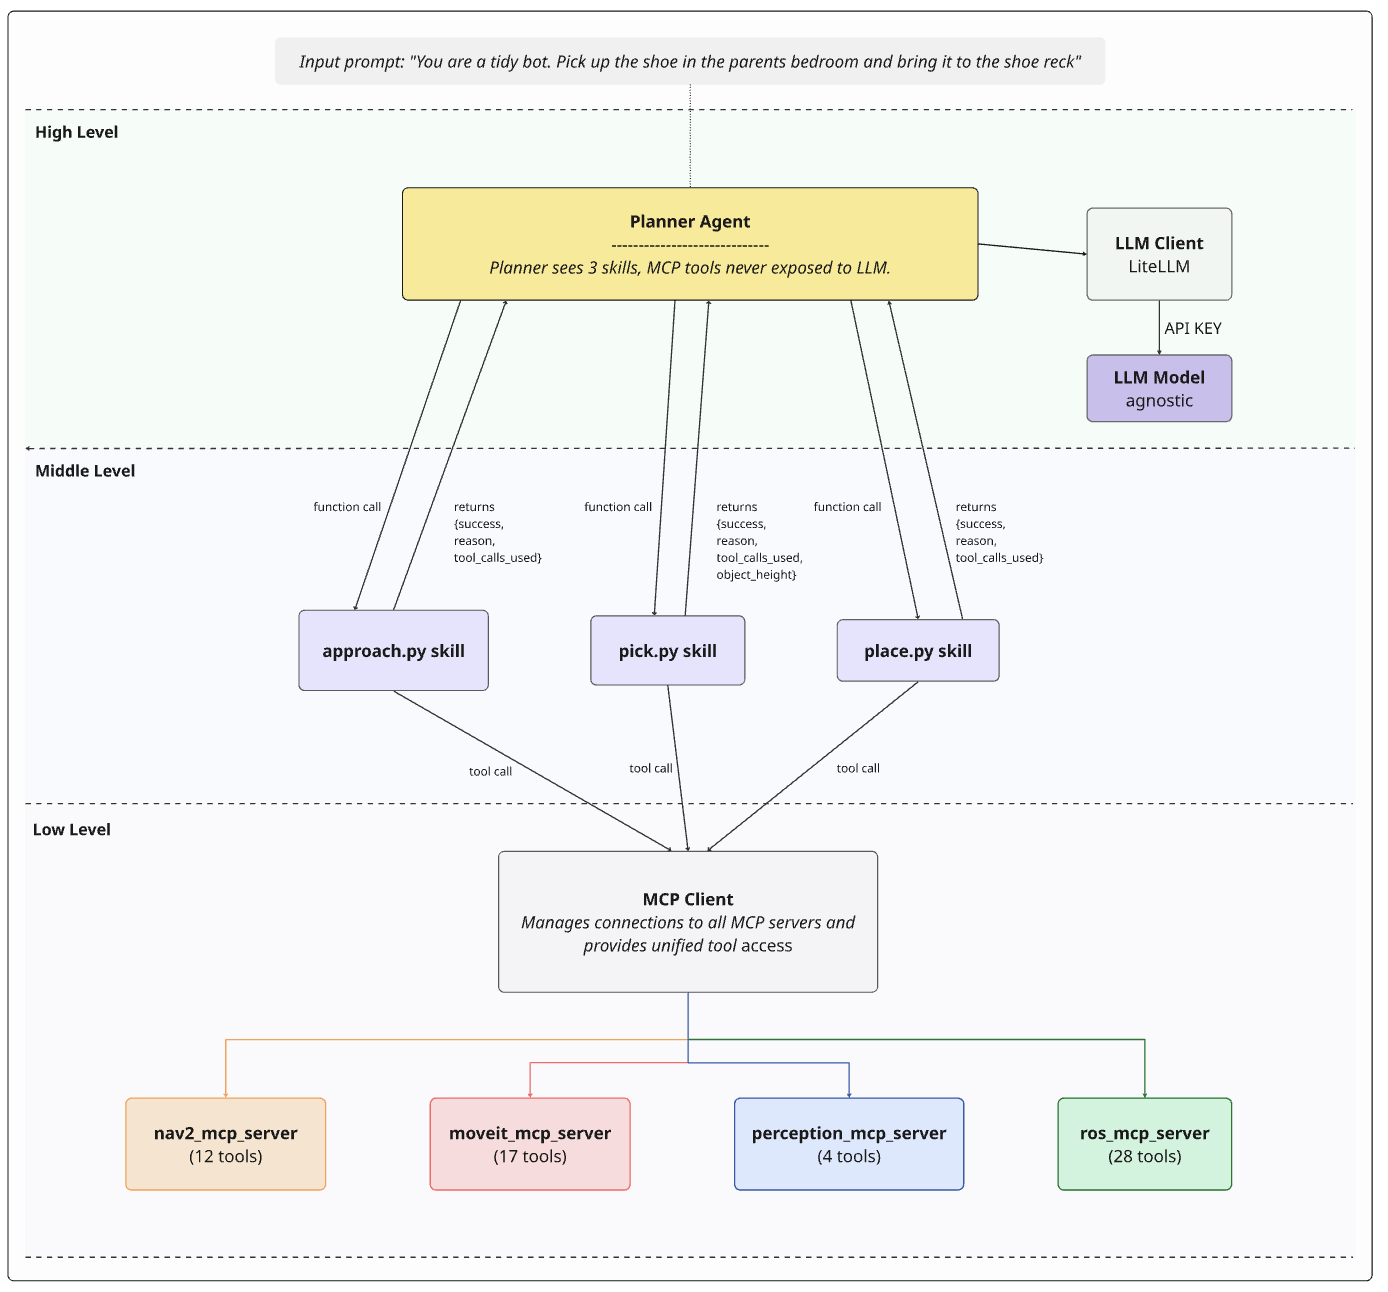
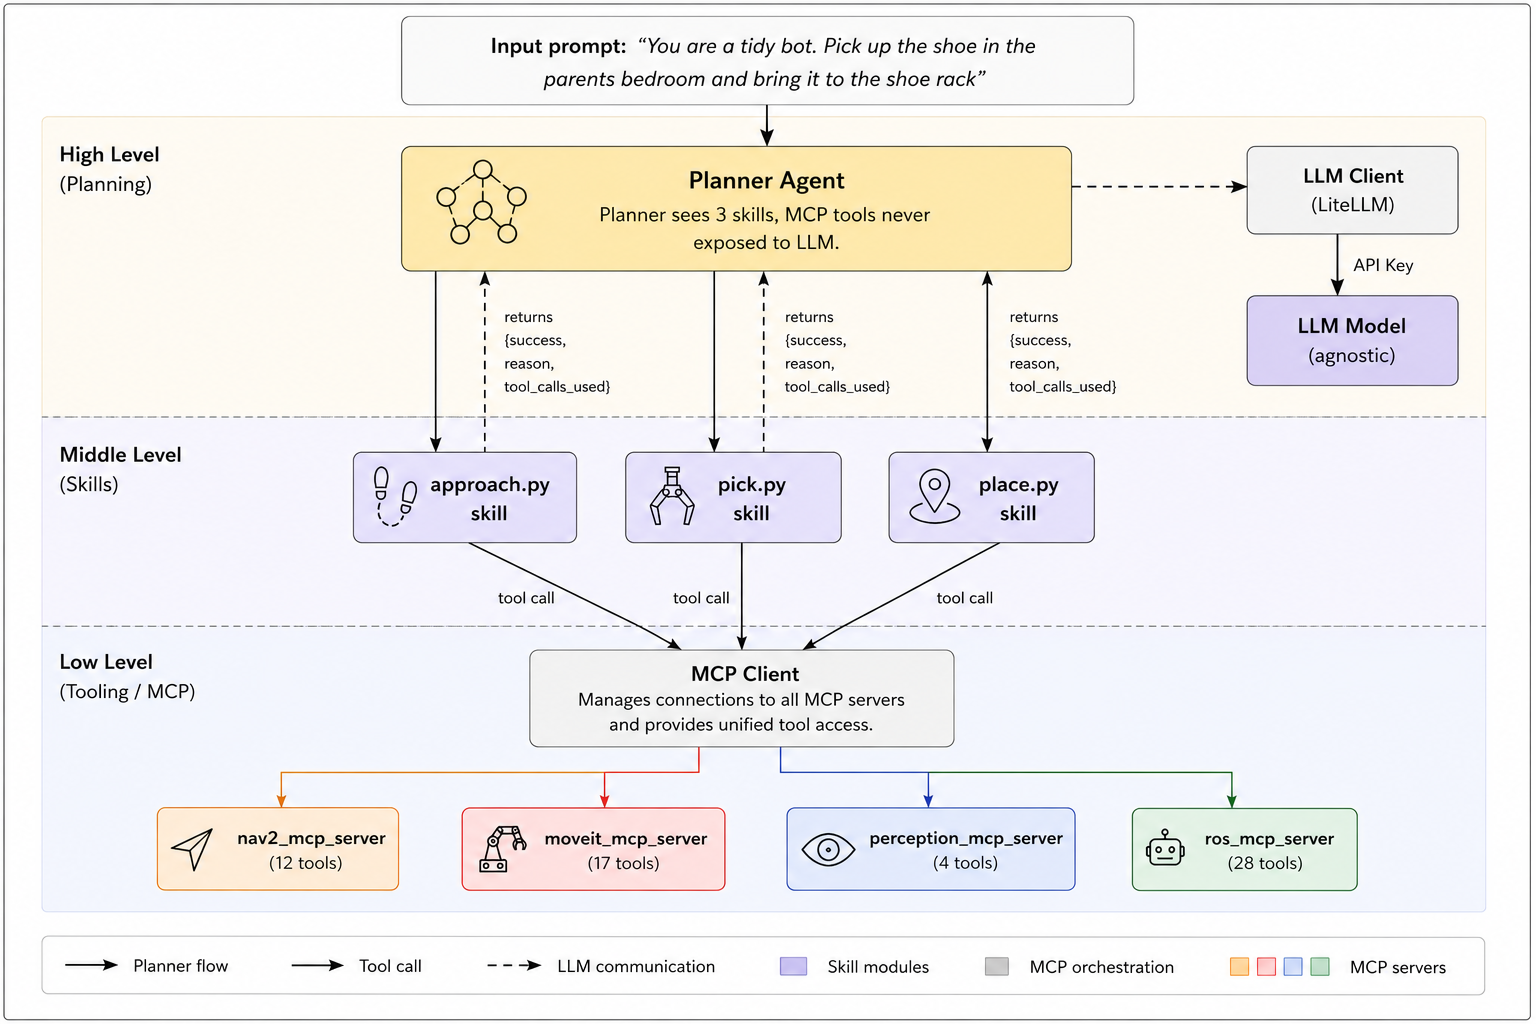
updated README.md

Changed region(s): [[0.0, 0.0, 1.0, 1.0], [0.7745, 0.1562, 0.9604, 0.375], [0.6196, 0.6562, 0.6506, 0.6875]]

diff --git a/README.md b/README.md
@@ -8,22 +8,22 @@
 
 A deterministic-skills agentic architecture for long-horizon mobile-manipulation tasks on a [Summit XL](https://github.com/icclab/icclab_summit_xl) mobile manipulator (UR5 + Robotiq 2F-140) using ROS 2 Jazzy. Inspired by the CaP-X programmatic skill-abstraction pattern (Fu et al., 2026), implemented as a deliberately less-effort variant: small Python skills wrap the canonical MCP tool sequences for `approach`, `pick`, and `place`, and a planner LLM decides which skill to call next.
 
-Originally built as one of three architectures compared in a BA thesis on "where the policy should live" in agentic robotics; released so others can reuse the pattern.
+
 
 ![Architecture diagram](docs/architecture.png)
 
-The headline claim: ~60 MCP tools across 4 servers are never exposed to the planner LLM. The planner sees exactly 3 skill schemas. All low-level decisions (which MCP tool, in what order, with what arguments, with what error handling) are absorbed by deterministic Python.
 
 ## Short Demo
 
-
-
 https://github.com/user-attachments/assets/59f5b0d4-e723-47ab-bc2b-48469d949937
+
+Originally built as one of three architectures compared in a BA thesis on "where the policy should live" in agentic robotics; released so others can reuse the pattern.
+
+The headline claim: ~60 MCP tools across 4 servers are never exposed to the planner LLM. The planner sees exactly 3 skill schemas. All low-level decisions (which MCP tool, in what order, with what arguments, with what error handling) are absorbed by deterministic Python.
 
 
 
 ## Comparison-axis position
-![Overview architecture](docs/overview.png)
 
 | Architecture | Where the policy lives | Planner LLM |
 |---|---|---|
